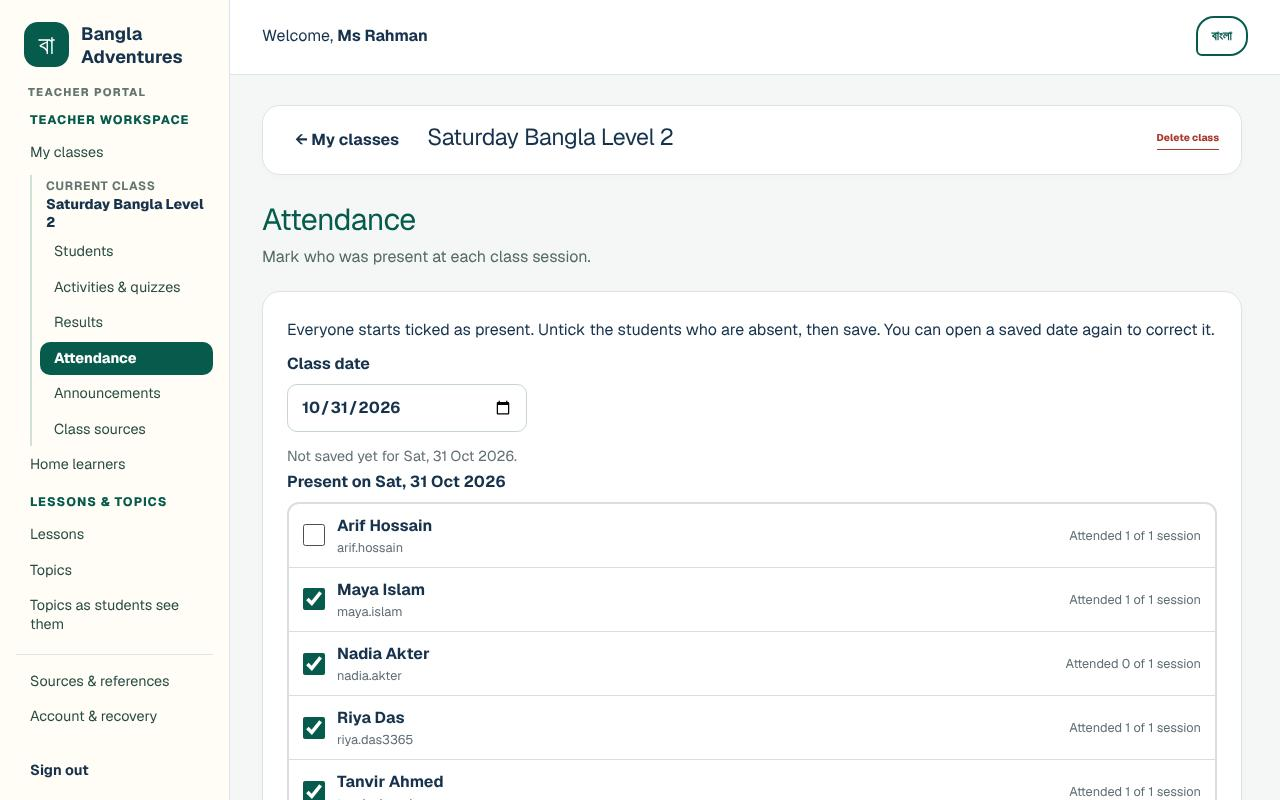
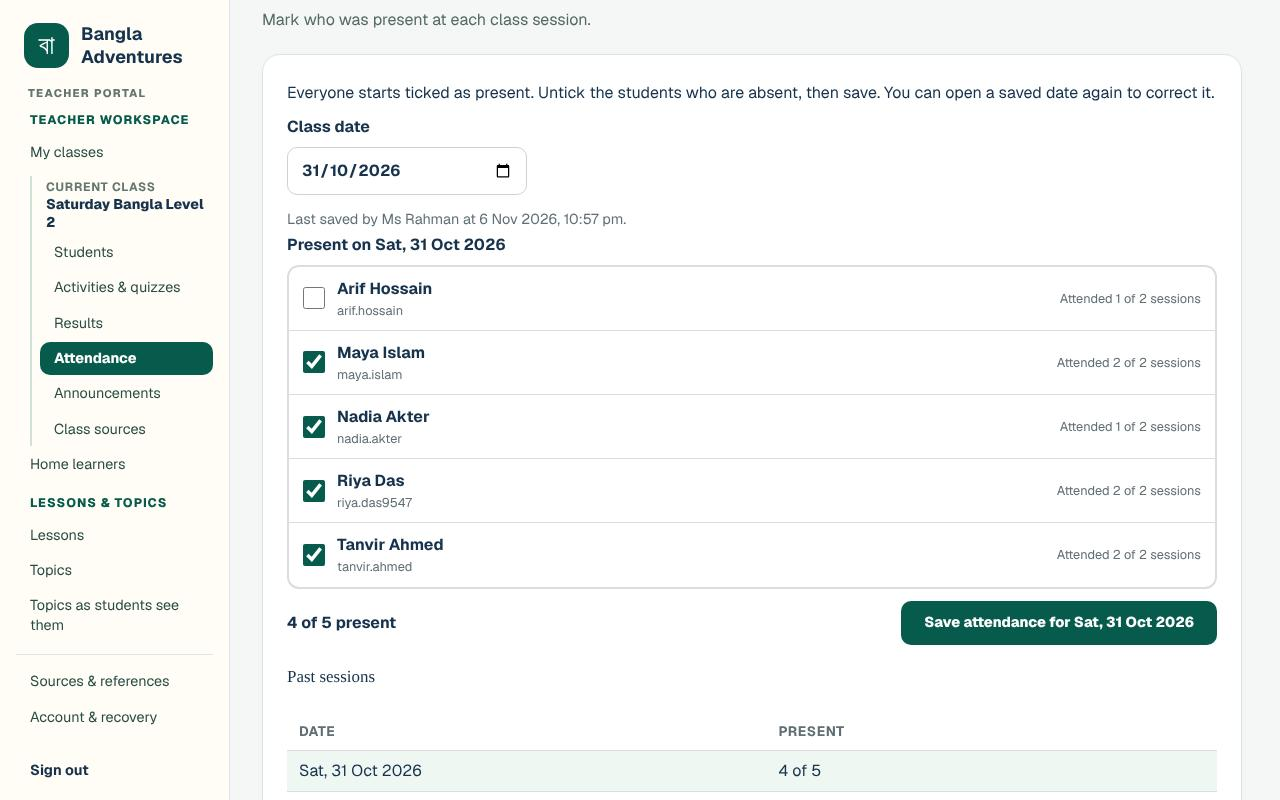
Correct the teacher guide after a walkthrough on a fresh install
Describe where a sent-back topic is listed and add the Approved label,
count sent-back activities in the gradebook Done total, drop the
invisible Lesson details label, spell out the first sign-in with a
temporary password, what deleting a class, signing out everywhere and
deleting an account do, and two more error messages. Retake the
attendance picture with a day/month date and the save button in view.

diff --git a/docs/user-guides/teacher.md b/docs/user-guides/teacher.md
@@ -91,10 +91,11 @@ you can sign in as a teacher.
 
 ### Your first sign-in with a temporary password
 
-If your Administrator created your account, the first sign-in takes you to a page headed
+If your Administrator created your account, sign in as described above, using your email and
+the temporary password from your sheet. The first sign-in takes you to a page headed
 **Choose your own password**.
 
-1. In **Temporary password**, type the password your Administrator gave you.
+1. In **Temporary password**, type the temporary password again.
 2. In **New password**, type a new password of at least 10 characters. Only you should know it.
 3. Type it again in **Type the new password again**.
 4. Select **Save my new password**.
@@ -131,7 +132,8 @@ If you have no recovery codes left, ask your school's Administrator to reset you
 
 ## Your workspace at a glance
 
-The menu on the left is the same on every teacher page. On a phone, select **Menu** at the top to
+The menu on the left is the same on every teacher page. Its items are in two groups, headed
+**Teacher workspace** and **Lessons & topics**. On a phone, select **Menu** at the top left to
 open it.
 
 | Menu item | What it is for |
@@ -167,6 +169,7 @@ classes, **Enrolments**, **Activities** and **Submissions** across all your clas
 - **To go back to the list,** select **← My classes** or **My classes** in the menu.
 - **To delete a class,** open it and select **Delete class** (top right). You are asked
   *"Delete this class, its activities and submissions?"* Select **OK** only if you are sure.
+  You go back to **My classes**, and the class is no longer listed.
 
 Your Administrator can also create a class for you, or hand one of your classes to another
 teacher (see
@@ -179,10 +182,11 @@ themselves and were approved by your Administrator).
 
 1. Open the class. The **Students** section is shown first.
 2. Under **Allocate students**, type part of a student's name or username in **Find students**.
-   The list below shows matching students.
+   The list below shows matching students. (Before you type, it shows every student you can
+   add.)
 3. Tick each student you want. Your ticks are kept while you search for more names.
    - **Select all shown** ticks everyone in the list.
-   - **Clear selection** removes all your ticks.
+   - **Clear selection** removes all your ticks. It appears once you have ticked someone.
 4. Select **Add selected** (the button shows how many you have ticked, for example
    **Add selected (3)**).
 
@@ -252,7 +256,9 @@ Replace the example names with your students before uploading.
 
 **What you'll see:** for example *"2 student accounts created and added to this class."* and a
 **Student sign-in sheet** with each student's **Name**, **Username** and **Temporary password**.
-The sheet also tells students the address to sign in at.
+The sheet also tells students the address to sign in at. If the file listed students who
+already had an account, they are shown separately under **Already had an account**. They keep
+their own password, so they are not on the sign-in sheet.
 
 ![The sign-in sheet after an upload. The address and temporary passwords are blurred in this picture.](images/teacher/04-csv-sign-in-sheet.jpg)
 
@@ -277,7 +283,8 @@ rows listed and upload the file again."* and a list of the rows to fix, for exam
 - *Line 3: Enter the student's name.*
 - *Line 4: Username "tanvir ahmed" must be 3–40 letters, numbers, dots, dashes or underscores.*
 - *Line 1: The first row must be a header with a name column ("name", "student name" or "display
-  name") and, optionally, "username".*
+  name") and, optionally, "username". Found: "student".* (The end of the message shows what your
+  first row says.)
 - *Line 1: Unknown column "age". Use only "name" and, optionally, "username".*
 
 If a name matches a student who already has an account, you will see a message such as *"A
@@ -303,9 +310,9 @@ Administrator before students can see it.
 5. Under **Question 1**, type the question, then type the answers in **Option 1** and
    **Option 2**.
 6. Select the round button next to the **correct answer**.
-   - **+ Add option** adds another answer.
+   - **+ Add option** adds another answer. **✕** next to an answer removes it.
    - **+ Add question** adds another question.
-   - **Remove question** removes a question.
+   - **Remove question** removes a question (it appears when there is more than one).
 7. Select **Submit for Admin approval**.
 
 **What you'll see:** *"Activity submitted for Admin approval. Students and parents cannot see it
@@ -320,8 +327,9 @@ Administrator guide), the line changes to one of these:
 
 - **Approved by Admin · published** — your students can now answer it.
 - **Changes requested · not published** — read the **Review note** under it. Select
-  **Revise as a new activity** to copy it into the form, make your changes and submit it again.
-  The original and its results are kept.
+  **Revise as a new activity** to copy it into the form. You will see *"A copy is ready in the
+  form below. Edit it and submit it for a new Admin review; the original and its results are
+  retained."* Make your changes and select **Submit for Admin approval** again.
 
 Other buttons on each activity:
 
@@ -342,12 +350,16 @@ Other buttons on each activity:
   print.
 - **Done** — how many activities the student has submitted, out of the total (for example *1/2*).
 - **Average** — the average score of the work they **have** submitted.
-- **Attendance** — sessions attended, for example *1 of 2*.
+- **Attendance** — sessions attended, for example *1 of 2*. It shows — until you take
+  attendance for that student.
 - **One column for each activity**, newest first, showing the score (for example *2/2*).
 - **—** means the student has not submitted that work yet. A real score of zero shows as *0/2*,
   not —.
-- An activity that is still waiting for Administrator approval also gets a column, with — for
-  everyone, and is counted in each student's **Done** total.
+- An activity that students cannot see yet also gets a column, with — for everyone, and is
+  counted in each student's **Done** total. This includes activities still waiting for
+  Administrator approval and activities sent back with **Changes requested**. So a student who
+  has done every published activity can still show, for example, *2/3*. Delete a sent-back
+  activity you no longer need, and it stops being counted.
 
 Useful tools:
 
@@ -379,7 +391,7 @@ Further down the **Results** section:
 5. Select **Save attendance for** (the button shows the date, for example
    **Save attendance for Sat, 31 Oct 2026**).
 
-![Attendance for 31 October with Arif unticked](images/teacher/07-attendance.jpg)
+![Attendance for 31 October 2026: Arif is unticked, with the count and the save button below the list](images/teacher/07-attendance.jpg)
 
 **What you'll see:** *"Attendance saved for Sat, 31 Oct 2026: 4 of 5 present."* and *"Last saved
 by Ms Rahman at …"*. Next to each student you can see their total so far, for example *"Attended 1
@@ -444,10 +456,10 @@ their **My children** page (see [Opening class sources](parent.md#opening-class-
 Parent guide).
 
 - **To change a link,** select **Edit**. The form changes to **Edit source**. Make your changes
-  and select **Submit source for Admin approval**. You will see *"Source updated and submitted for
-  Admin approval. It is hidden until approved again."* Students do not see it until it is approved
-  again.
-- **To remove a link,** select **Remove** and confirm.
+  and select **Submit source for Admin approval** (or **Cancel** to leave it as it was). You will
+  see *"Source updated and submitted for Admin approval. It is hidden until approved again."*
+  Students do not see it until it is approved again.
+- **To remove a link,** select **Remove** and confirm. You will see *"Source removed."*
 
 The NCTB textbook links that everyone sees are looked after by the Administrator, not by
 teachers (see
@@ -479,6 +491,8 @@ Every topic is written in English and Bangla. Topics are shared by the whole sch
 7. If you like, say where the content comes from under **Source note (optional)**, in both
    languages.
 8. Select **Submit for administrator review**. (Select **Cancel** to leave without saving.)
+   If a box that must be filled in is still empty, the page jumps to it and asks you to fill
+   it in.
 
 ![The Write a new topic form with English and Bangla boxes side by side](images/teacher/09-topic-editor.jpg)
 
@@ -497,16 +511,22 @@ The page also shows **What changed** and a **Version history** table. To fix som
 
 ### Following your topic
 
-Select **← All topics** to go back to the list. Your topic is listed under
-**Waiting for approval** until the Administrator decides (see
-[Topics](administrator.md#topics) in the Administrator guide). Its label tells you where it is:
+Select **← All topics** to go back to the list. While it waits for the Administrator (see
+[Topics](administrator.md#topics) in the Administrator guide), your topic is listed at the top
+under **Waiting for approval**, with **Preview submission** and **Edit**. Every topic is also
+listed further down under its category, with **Preview & history** and **Edit**. The label under
+the title tells you where it is:
 
 - **New · waiting for approval** — not seen by students yet.
-- **Sent back · not published** — the Administrator wants changes. Open it with
-  **Preview & history** or **Edit** to read their note, for example *"Sent back by (Administrator):
-  Please add a second section about the tea pickers."*, then edit and submit again.
+- **Sent back · not published** — the Administrator wants changes. The topic is no longer under
+  **Waiting for approval**; find it under its category. Open it with **Preview & history** or
+  **Edit** to read their note, for example *"Sent back by (Administrator): Please add a second
+  section about the tea pickers."* (the preview also shows the date). Then edit it and submit it
+  again.
+- **Approved** — students can read it.
 - **Approved · new version waiting** — you edited an approved topic. Students keep seeing the
-  approved version until the Administrator approves your changes.
+  approved version until the Administrator approves your changes. The preview's **What changed**
+  box lists your changes.
 
 You can also edit any existing topic with **Edit**, and look at any topic with
 **Preview & history** or **Preview submission**. Teachers cannot approve or publish topics.
@@ -528,9 +548,10 @@ transcripts, English support and correct answers shown, whether or not it has be
 
 **What you'll see:**
 
-- **Lesson details** — the title in English and Bangla and its status, for example
-  *"Approved by (Administrator), (date)."* or *"Nobody has approved this lesson yet, so students
-  cannot see it."*
+- **At the top** — the lesson's title in English and Bangla and its status, for example
+  **Approved** with *"Approved by (Administrator), (date)."*, or
+  **Waiting for approval · hidden from students** with *"Nobody has approved this lesson yet, so
+  students cannot see it."*
 - **Student view preview** — the lesson as students see it. Use **English** and **বাংলা** to switch
   its language, and the lesson's own tabs (*Overview, Listen, Read, Speak, Write, Watch, Mastery*)
   to move around. Nothing you do in the preview is saved.
@@ -546,11 +567,13 @@ Select **← All lessons** to go back.
 At the bottom of a lesson, **Detailed specialist checks (optional)** lets staff record internal
 notes, for example a Bangla language check.
 
-1. Select **Detailed specialist checks (optional)** to open it.
+1. Select **Detailed specialist checks (optional)** to open it. The number after it, for
+   example **(0)**, is how many checks have been saved.
 2. Under **Record your check**, choose the **Check** (for example *Bangla language*) and the
    **Status** (for example *Check complete*).
 3. Type the **Reviewer name** and any **Notes**.
-4. Select **Save check**. You will see *"Check saved."*
+4. Select **Save check**. You will see *"Check saved."* and your check is listed in a table
+   above the form.
 
 A specialist check is a note only. It does not publish anything.
 
@@ -599,13 +622,16 @@ Select **Account & recovery** in the menu. The page is headed **Your data, in yo
   incorrect."*
 - **Download data export (JSON)** — downloads a copy of what is stored for your account
   (*bangla-adventures-export.json*).
-- **Sign out everywhere** — signs your account out on every device, including this one. Use it if
-  you think you stayed signed in on a shared or public computer.
+- **Sign out everywhere** — signs your account out on every device, including this one, and
+  takes you back to the welcome page. Use it if you think you stayed signed in on a shared or
+  public computer.
 - **Generate new recovery codes** — type your **Current password** and select
   **Generate new recovery codes**. Eight new codes appear with *"Save these now — they are shown
   only once."* Your old codes stop working. Do this when you are running out of codes.
-- **Delete account** — permanently removes your account and everything it owns. It cannot be
-  undone. Talk to your Administrator before you use it.
+- **Delete account** — permanently removes your account and everything it owns. It asks for your
+  **Current password** and for you to type **DELETE**, then you select
+  **Permanently delete account**. It cannot be undone. Talk to your Administrator before you use
+  it.
 
 ## Switching language
 
@@ -614,7 +640,8 @@ Bangla Adventures works in English and Bangla.
 - **In your teacher workspace,** select **বাংলা** at the top right. Menus, buttons and messages
   change to Bangla, and the button changes to **English**. Select **English** to switch back.
   Bangla Adventures remembers your choice on the next page and after you reload.
-- **On the sign-in page,** select **বাংলায় দেখুন** at the top right.
+- **On the sign-in page,** select **বাংলায় দেখুন** at the top right. To switch back, select
+  **View in English**.
 - **In topic and lesson previews,** use the preview's own **English** and **বাংলা** buttons
   (and **Side by side** for topics). These change only the preview.
 
@@ -664,6 +691,8 @@ Names you type, such as class names and student names, stay exactly as typed.
 | A student is not in the **Find students** list, or you see *"No student who can be added matches this search. Only approved, active students who are not in this class are listed."* | The student is already in the class, has no account, or their account is not approved yet. | Check **Students in this class**. Otherwise ask the Administrator to approve the student, or add them with a CSV class list. |
 | *"Nothing was created. Fix the rows listed and upload the file again."* | Something in the CSV file needs fixing. | Fix each line listed and upload the whole file again. See [If the upload is refused](#if-the-upload-is-refused). |
 | You left the page before saving the temporary passwords. | They cannot be shown again. | Ask the Administrator to help the students affected. |
+| *"Enter a public HTTPS link (https://…) without a password in it."* | A class source link does not start with **https://**. | Copy the full address from your browser's address bar. It must start with **https://**. |
+| *"Speaker credit and recorded consent confirmation are required."* | A recording was sent without the speaker's name or without the consent tick. | Fill in **Speaker name (for the credit)**, tick the consent box and select **Upload for review** again. |
 | Students cannot see your activity, topic, recording or class source. | It is still **Awaiting Admin approval** or was sent back. | Check its status line. Ask the Administrator to review it, or read their note and resubmit. |
 | A student cannot answer an activity. | The activity may be closed, or not approved yet. | Check **Activities & quizzes**. Select **Reopen** if you closed it. |
 | *"These attendance changes are not saved yet. Discard them?"* | You changed the date or left the page before saving attendance. | Select **Cancel**, then save the attendance. |
